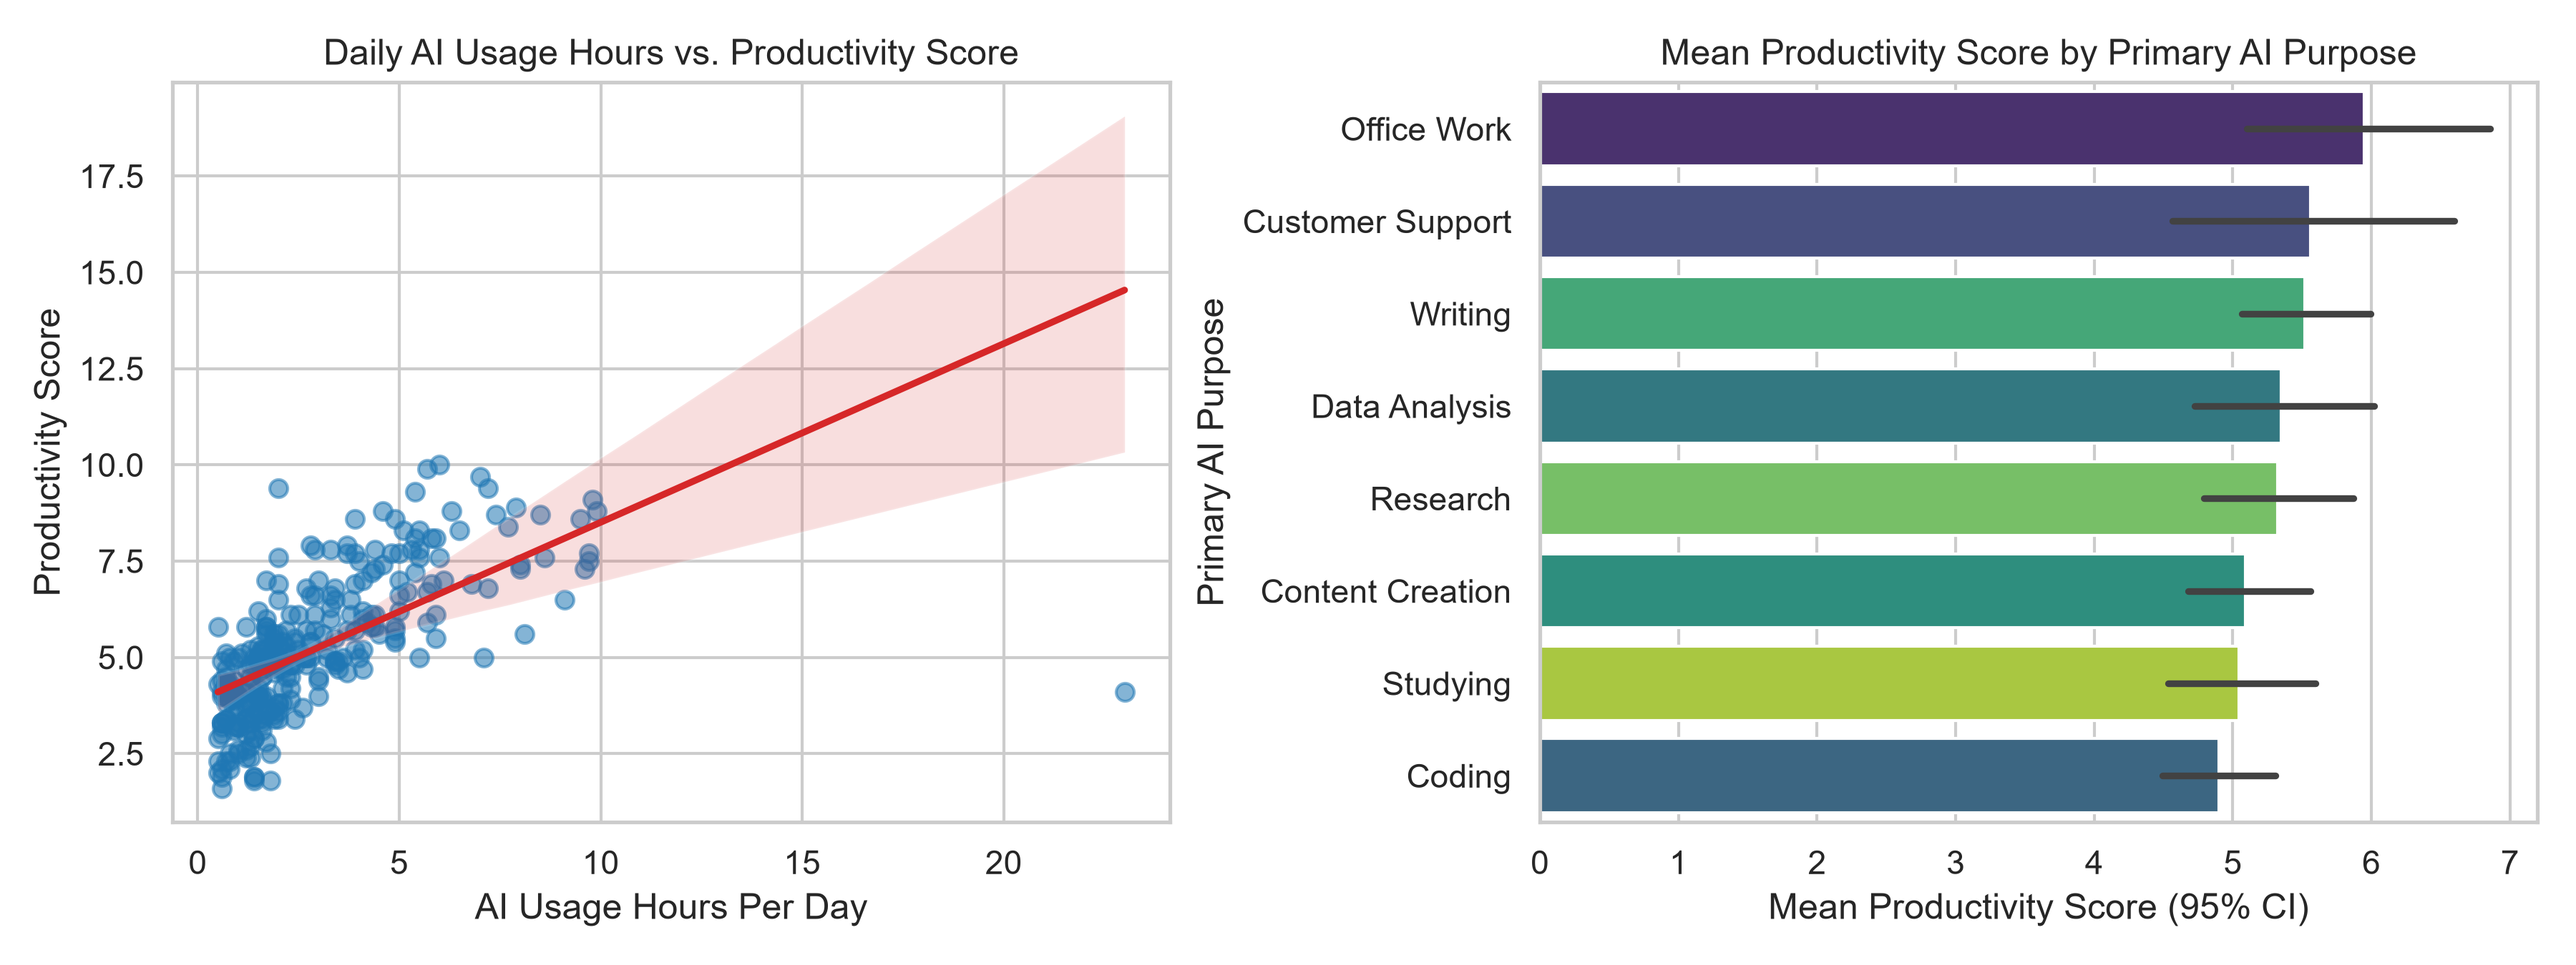
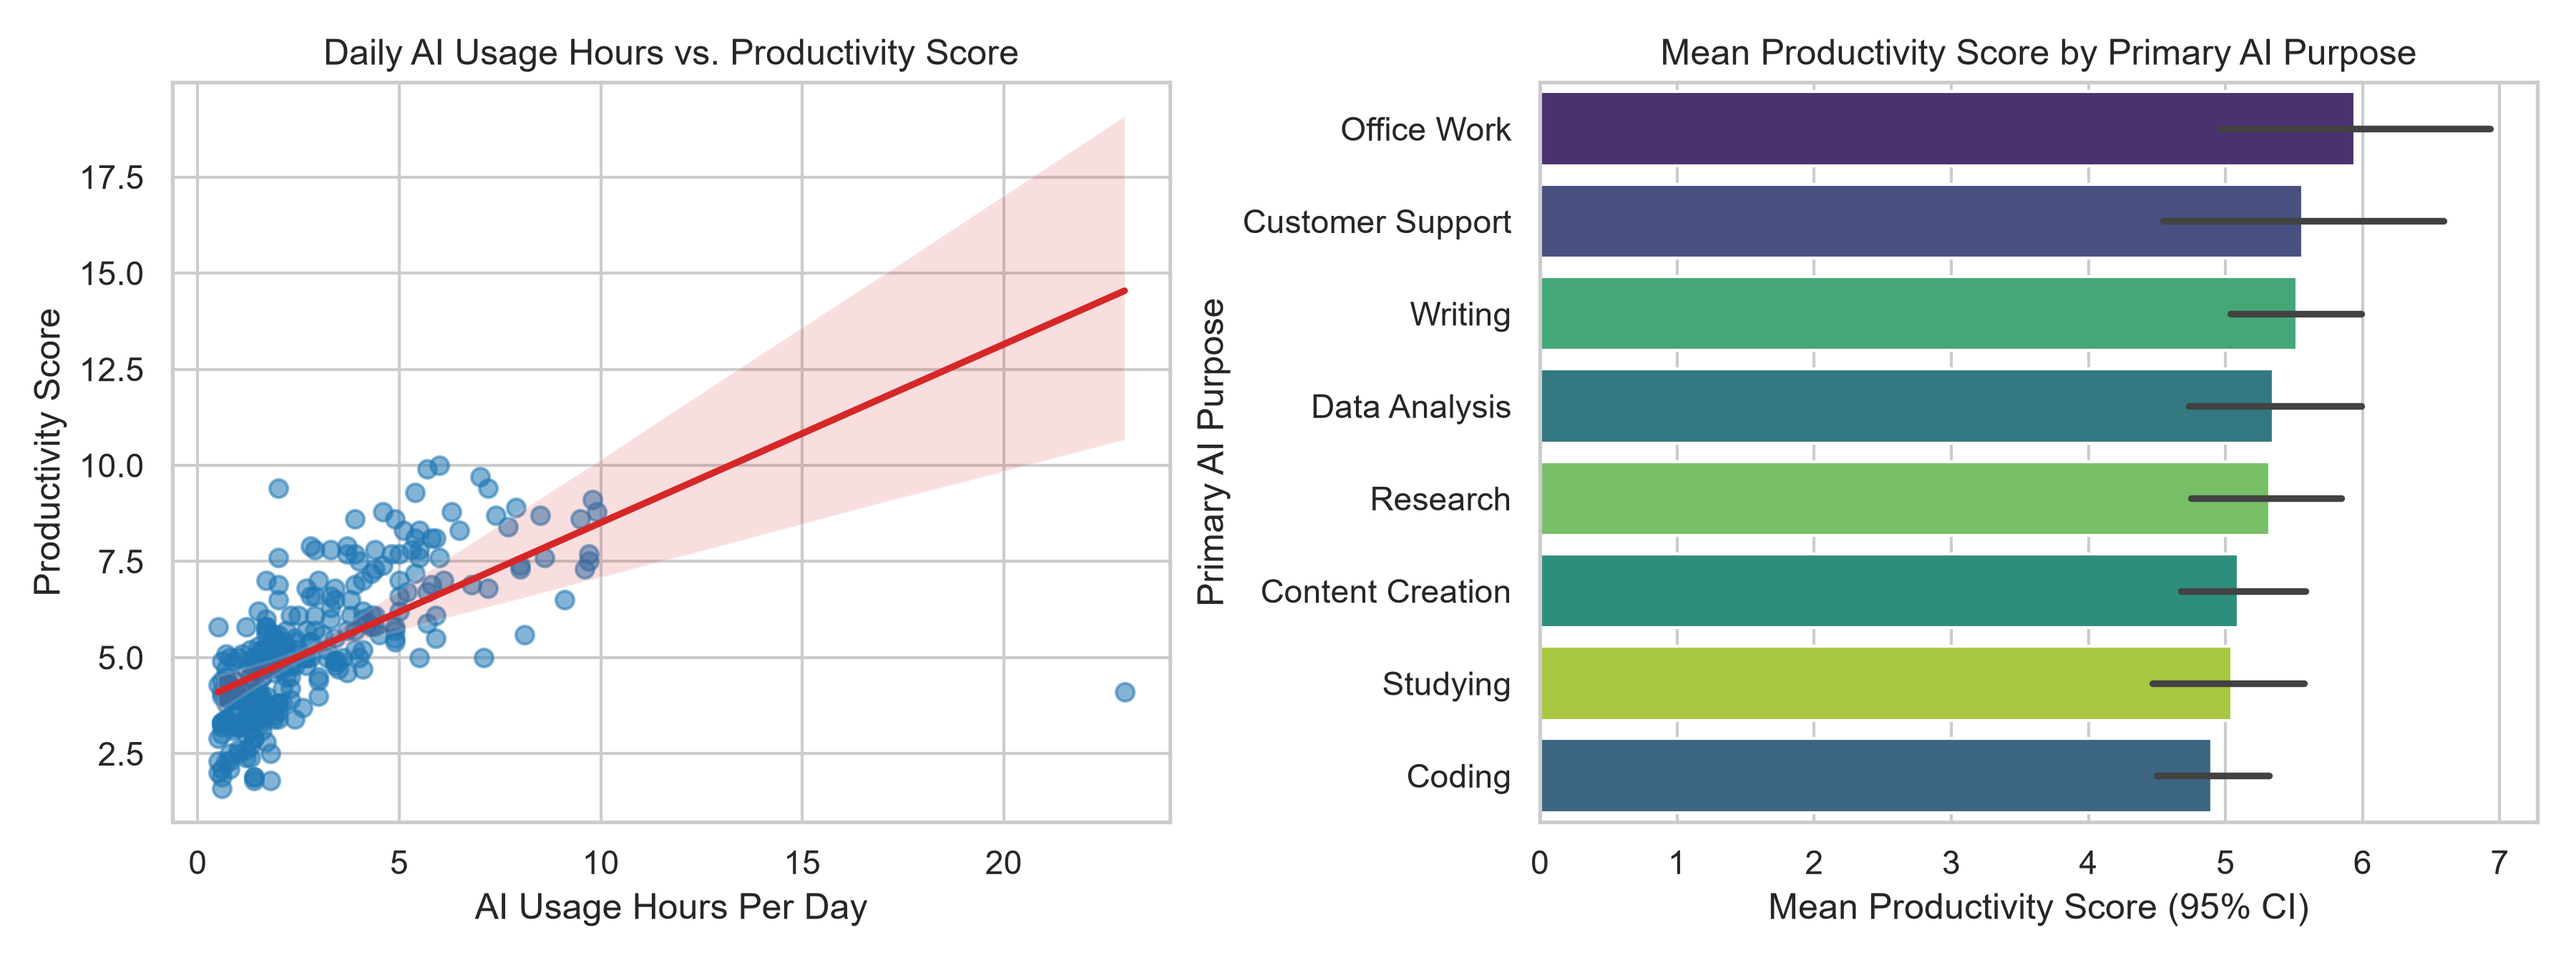
fixing misspelling comments

diff --git a/src/app.py b/src/app.py
@@ -30,7 +30,7 @@ st.markdown(
     **Course:** Fall 2026 CSC 405 Data Science | **Author:** Maria Reynoso  
     **Research Question:** How are daily AI usage hours (`AI_Usage_Hours_Per_Day`), primary task purpose (`AI_Purpose`), 
     and user role (`User_Type`) associated with and predictive of perceived productivity (`Productivity_Score`)?  
-    *Note: Because these data come from an observational survey ($N = 300$ raw responses; $N = 288$ unique respondents after removing duplicates), all findings reflect statistical associations and predictive patterns rather than causal effects.*
+    **Note**: Because these data come from an observational survey ($N = 300$ raw responses; $N = 288$ unique respondents after removing duplicates), all findings reflect statistical associations and predictive patterns rather than causal effects.*
     """
 )
 
